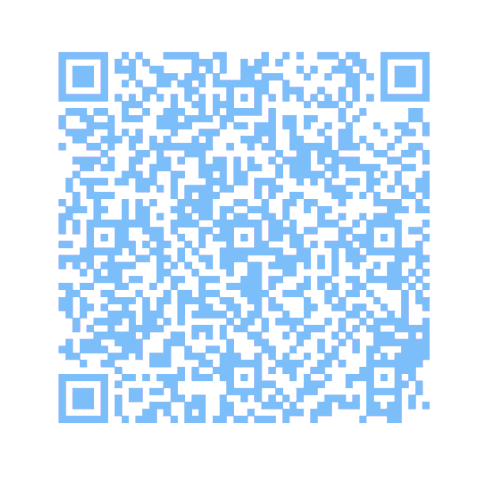
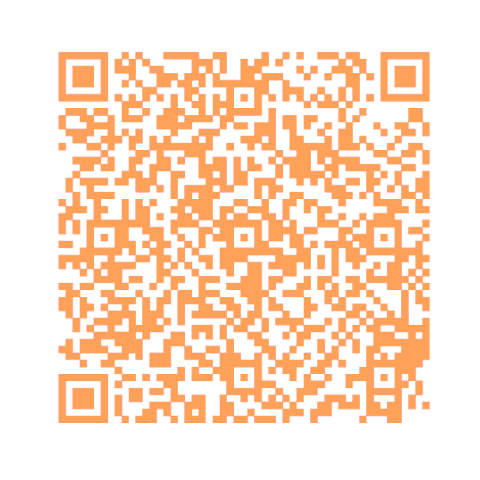
mudanças na lista de presentes para melhor entendimento

diff --git a/src/app/gifts/page.tsx b/src/app/gifts/page.tsx
@@ -64,19 +64,40 @@ async function getPresentes(): Promise<Presente[]> {
 
   console.log('[DEBUG] Presentes encontrados:', data?.length);
 
-  // Separar por presença de imagem
-  const comImagem = (data || []).filter(p => p.imagem_url);
-  const semImagem = (data || []).filter(p => !p.imagem_url);
+  // Valores dos vales que devem aparecer fixamente no início
+  const valesValores = [50, 100, 250, 500];
+  
+  // Separar vales especiais do resto
+  const valesPresentes: Presente[] = [];
+  const outrosPresentes: Presente[] = [];
+  
+  (data || []).forEach(presente => {
+    if (valesValores.includes(presente.valor)) {
+      valesPresentes.push(presente);
+    } else {
+      outrosPresentes.push(presente);
+    }
+  });
+
+  // Ordenar vales na ordem desejada
+  const valesOrdenados = valesValores
+    .map(valor => valesPresentes.find(p => p.valor === valor))
+    .filter((p): p is Presente => p !== undefined);
+
+  // Separar outros presentes por presença de imagem
+  const comImagem = outrosPresentes.filter(p => p.imagem_url);
+  const semImagem = outrosPresentes.filter(p => !p.imagem_url);
 
   // Embaralhar cada grupo com a mesma seed
   const seed = getDailySeed();
   const comImagemEmbaralhados = seededShuffle(comImagem, seed);
   const semImagemEmbaralhados = seededShuffle(semImagem, seed + 1); // Seed diferente para o segundo grupo
 
-  // Combinar: com imagem primeiro (melhor visibilidade), depois sem imagem
-  const sorted = [...comImagemEmbaralhados, ...semImagemEmbaralhados];
+  // Combinar: vales primeiro, depois com imagem, depois sem imagem
+  const sorted = [...valesOrdenados, ...comImagemEmbaralhados, ...semImagemEmbaralhados];
 
   console.log('[DEBUG] Presentes retornados após shuffle:', sorted.length);
+  console.log('[DEBUG] Vales encontrados:', valesOrdenados.length);
   return sorted;
 }
 
@@ -98,27 +119,27 @@ export default async function Gifts() {
       <Navbar />
       <section className="bg-orange w-full flex flex-col gap-8 items-center py-12">
         <H1 className="uppercase w-full max-w-[1060px] text-center">Lista de presentes</H1>
-        <p className="text-cream text-xl text-center w-full max-w-[1060px] px-4">Nossa lista de presentes reúne itens e experiências que vão nos fazer muito felizes.</p>
+        <p className="text-cream text-xl text-center w-full max-w-[1060px] px-4">Para nos presentear, você pode escolher um produto ou experiência da nossa lista, clicar em "Presentear" e fazer o pagamento como preferir: parcelado no cartão ou via PIX. O valor chega direto em nossas mãos e você não precisa se preocupar com mais nada.</p>
       </section>
 
       <section className="bg-cream w-full px-4 md:px-12 py-12">
-        <div className="w-full border border-blue rounded-xl p-6 md:p-12 flex flex-col md:flex-row justify-center justify-between gap-8 md:gap-12">
+        <div className="w-full border border-orange rounded-xl p-6 md:p-12 flex flex-col md:flex-row justify-center justify-between gap-8 md:gap-12">
           <div className="flex flex-col justify-between gap-8">
           <div className="flex flex-col gap-4">
-          <h2 className="text-blue text-2xl uppercase">No PIX é mais fácil</h2>
-          <p className="text-blue text-xl">Tá na dúvida? Manda um PIX!
-          <br/>Vamos receber sua contribuição com muito amor e transformar em momentos especiais.</p>
+          <h2 className="text-orange text-2xl uppercase">No PIX é mais fácil</h2>
+          <p className="text-orange text-xl">Tá na dúvida? Manda um PIX!
+          <br/>Vamos receber sua contribuição com muito amor.</p>
           </div>
           <div className="flex flex-col gap-4">
             <div className="flex flex-row items-center gap-1">
-              <PixIcon className="w-6 text-blue"/>
-              <p className="text-blue text-xl">(19) 97140-8063</p>
+              <PixIcon className="w-6 text-orange"/>
+              <p className="text-orange text-xl">Chave PIX: (19) 97140-8063</p>
             </div>
             <PixCopyButton/>
           </div>
           </div>
           <div className="w-full flex md:max-w-[240px] h-auto justify-end">
-            <Image src={QRCode} alt="QR Code para pagamento" className="w-full rounded-lg"/>
+            <Image src={QRCode} alt="QR Code para pagamento" className="w-full rounded-lg aspect-square"/>
           </div>
         </div>
       </section>

diff --git a/src/app/page.tsx b/src/app/page.tsx
@@ -40,9 +40,13 @@ export default function Home() {
           question: "Como posso presentear os noivos?",
           answer: (
             <>
-              Se quiser contribuir com esse novo capitulo das nossas vidas, seu presente será carinhosamente transformado em momentos inesqueciveis na nossa lua de mel e nos próximos planos da nossa família.<br/><br/>
+              Como já temos nossa casa equipada, nossa lista de presentes funciona de um jeito um pouquinho diferente: em vez de itens físicos, as opções são contribuições em dinheiro que serão transformadas em experiências inesquecíveis, como nossa lua de mel e os próximos planos da nossa família.<br/><br/>
               
-              <a href='/gifts' className="text-blue text-xl underline transition-all hover:scale-105 active:scale-95">Neste link</a> você pode escolher um presente da lista ou contribuir via PIX.
+              É bem simples! Acesse nossa lista <a href='/gifts' className="text-blue text-xl underline transition-all hover:scale-105 active:scale-95">neste link</a>, escolha uma das opções com valores sugeridos (como uma diária na pousada, um jantar romântico ou um passeio especial) e contribua via PIX ou cartão pelo Mercado Pago, com total segurança.<br/><br/>
+
+              Se preferir, também é possível contribuir livremente com o valor que quiser, sem escolher uma opção específica, é só clicar em "Contribuir via PIX" diretamente na lista.<br/><br/>
+  
+              O que importa de verdade é a sua presença e o seu carinho. Qualquer contribuição, grande ou pequena, vai fazer parte da nossa história. 💛
             </>)
         },
         {

diff --git a/src/components/PixCopyButton.tsx b/src/components/PixCopyButton.tsx
@@ -33,7 +33,7 @@ export function PixCopyButton() {
 
   return (
     <div className="inline-flex">
-      <Button className="bg-blue text-cream" variant="secondary" onClick={handleCopy}>
+      <Button className="bg-orange text-cream" variant="secondary" onClick={handleCopy}>
         {copied ? 'Código PIX copiado' : 'Copiar chave PIX'}
       </Button>
     </div>
